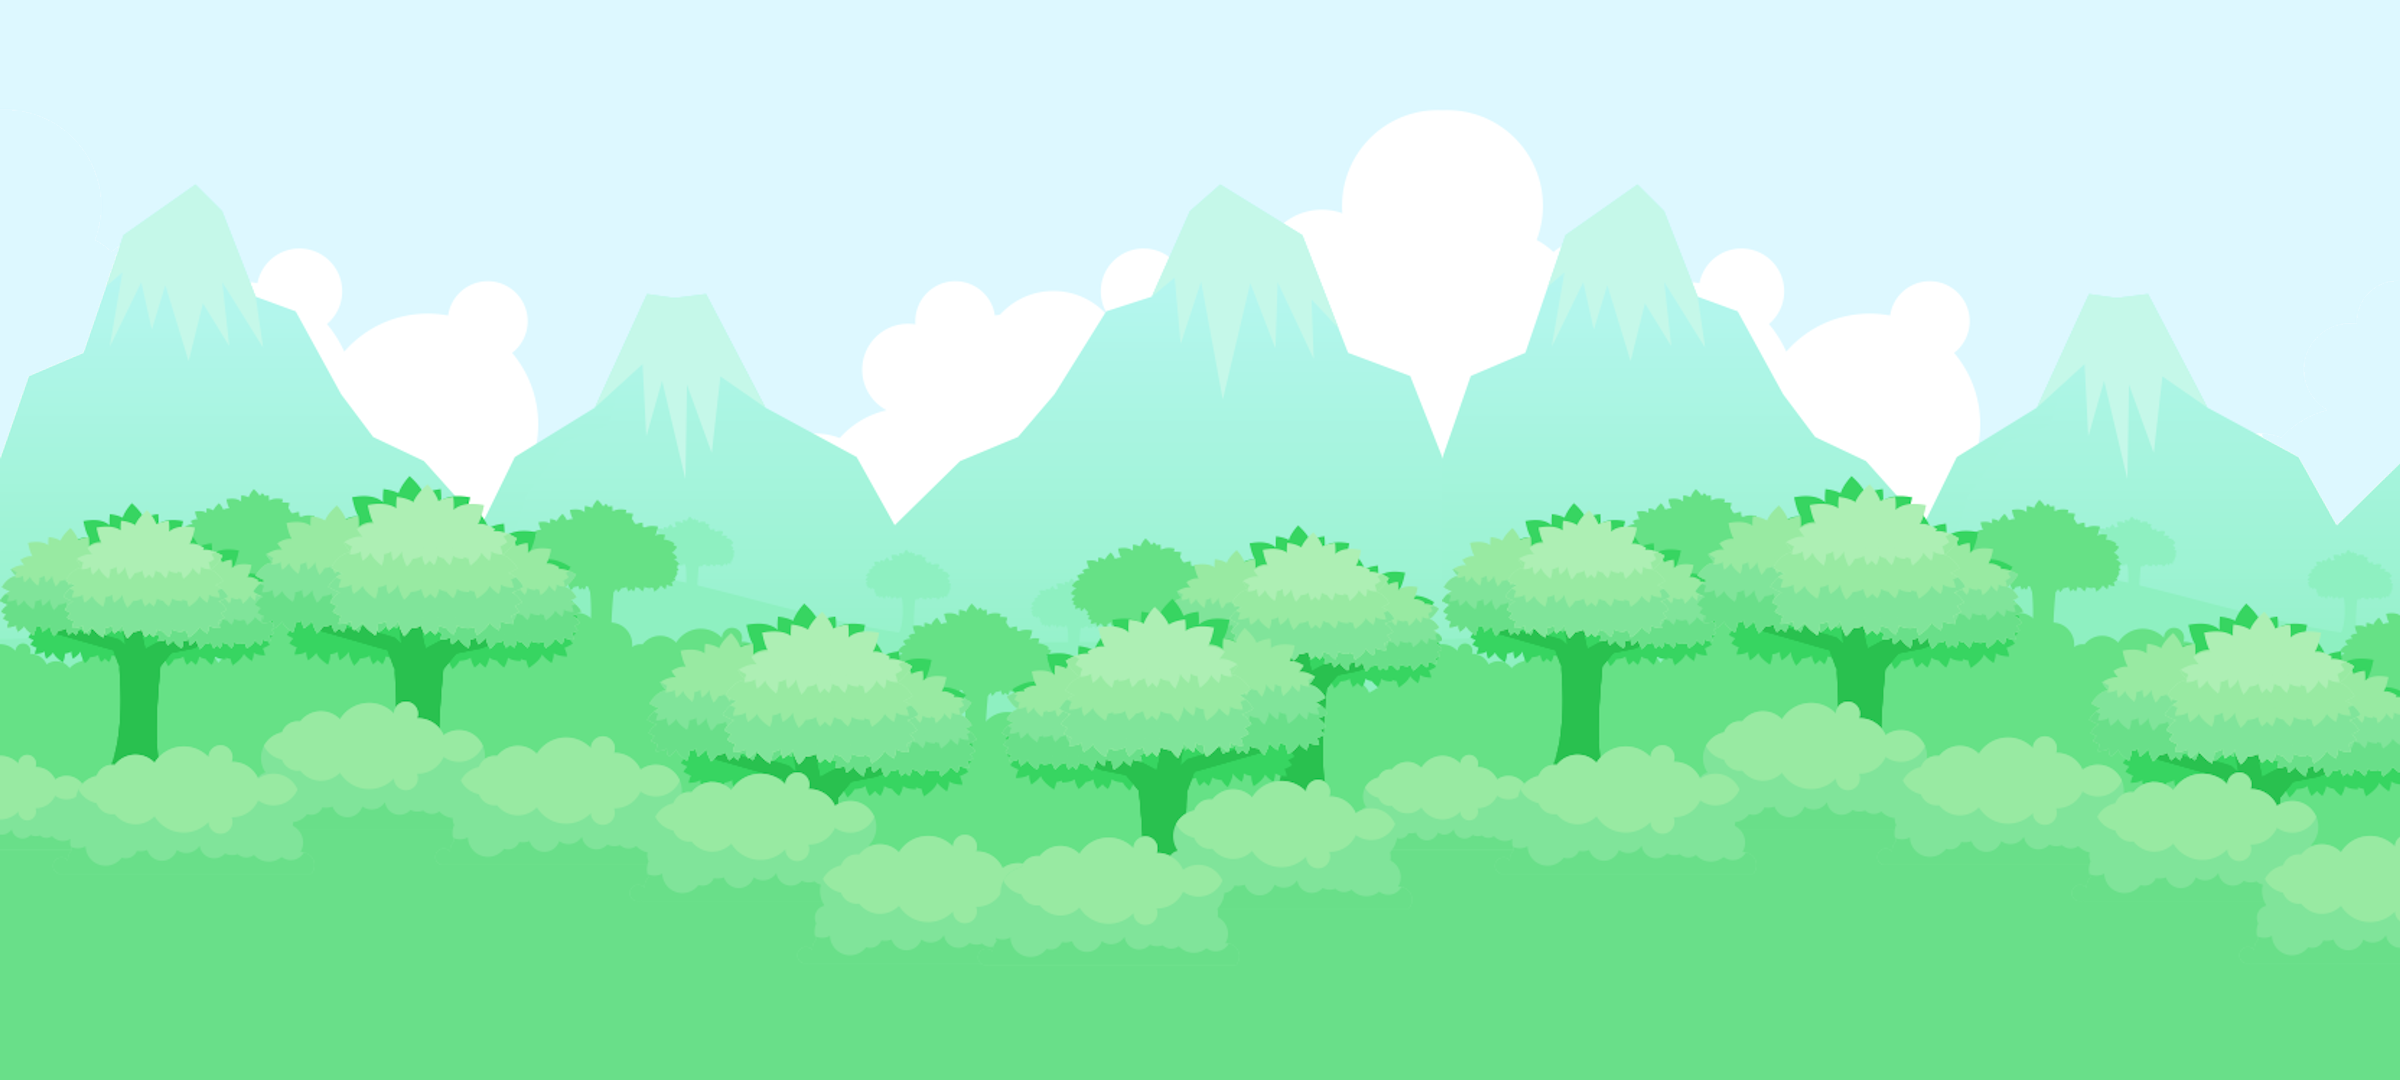
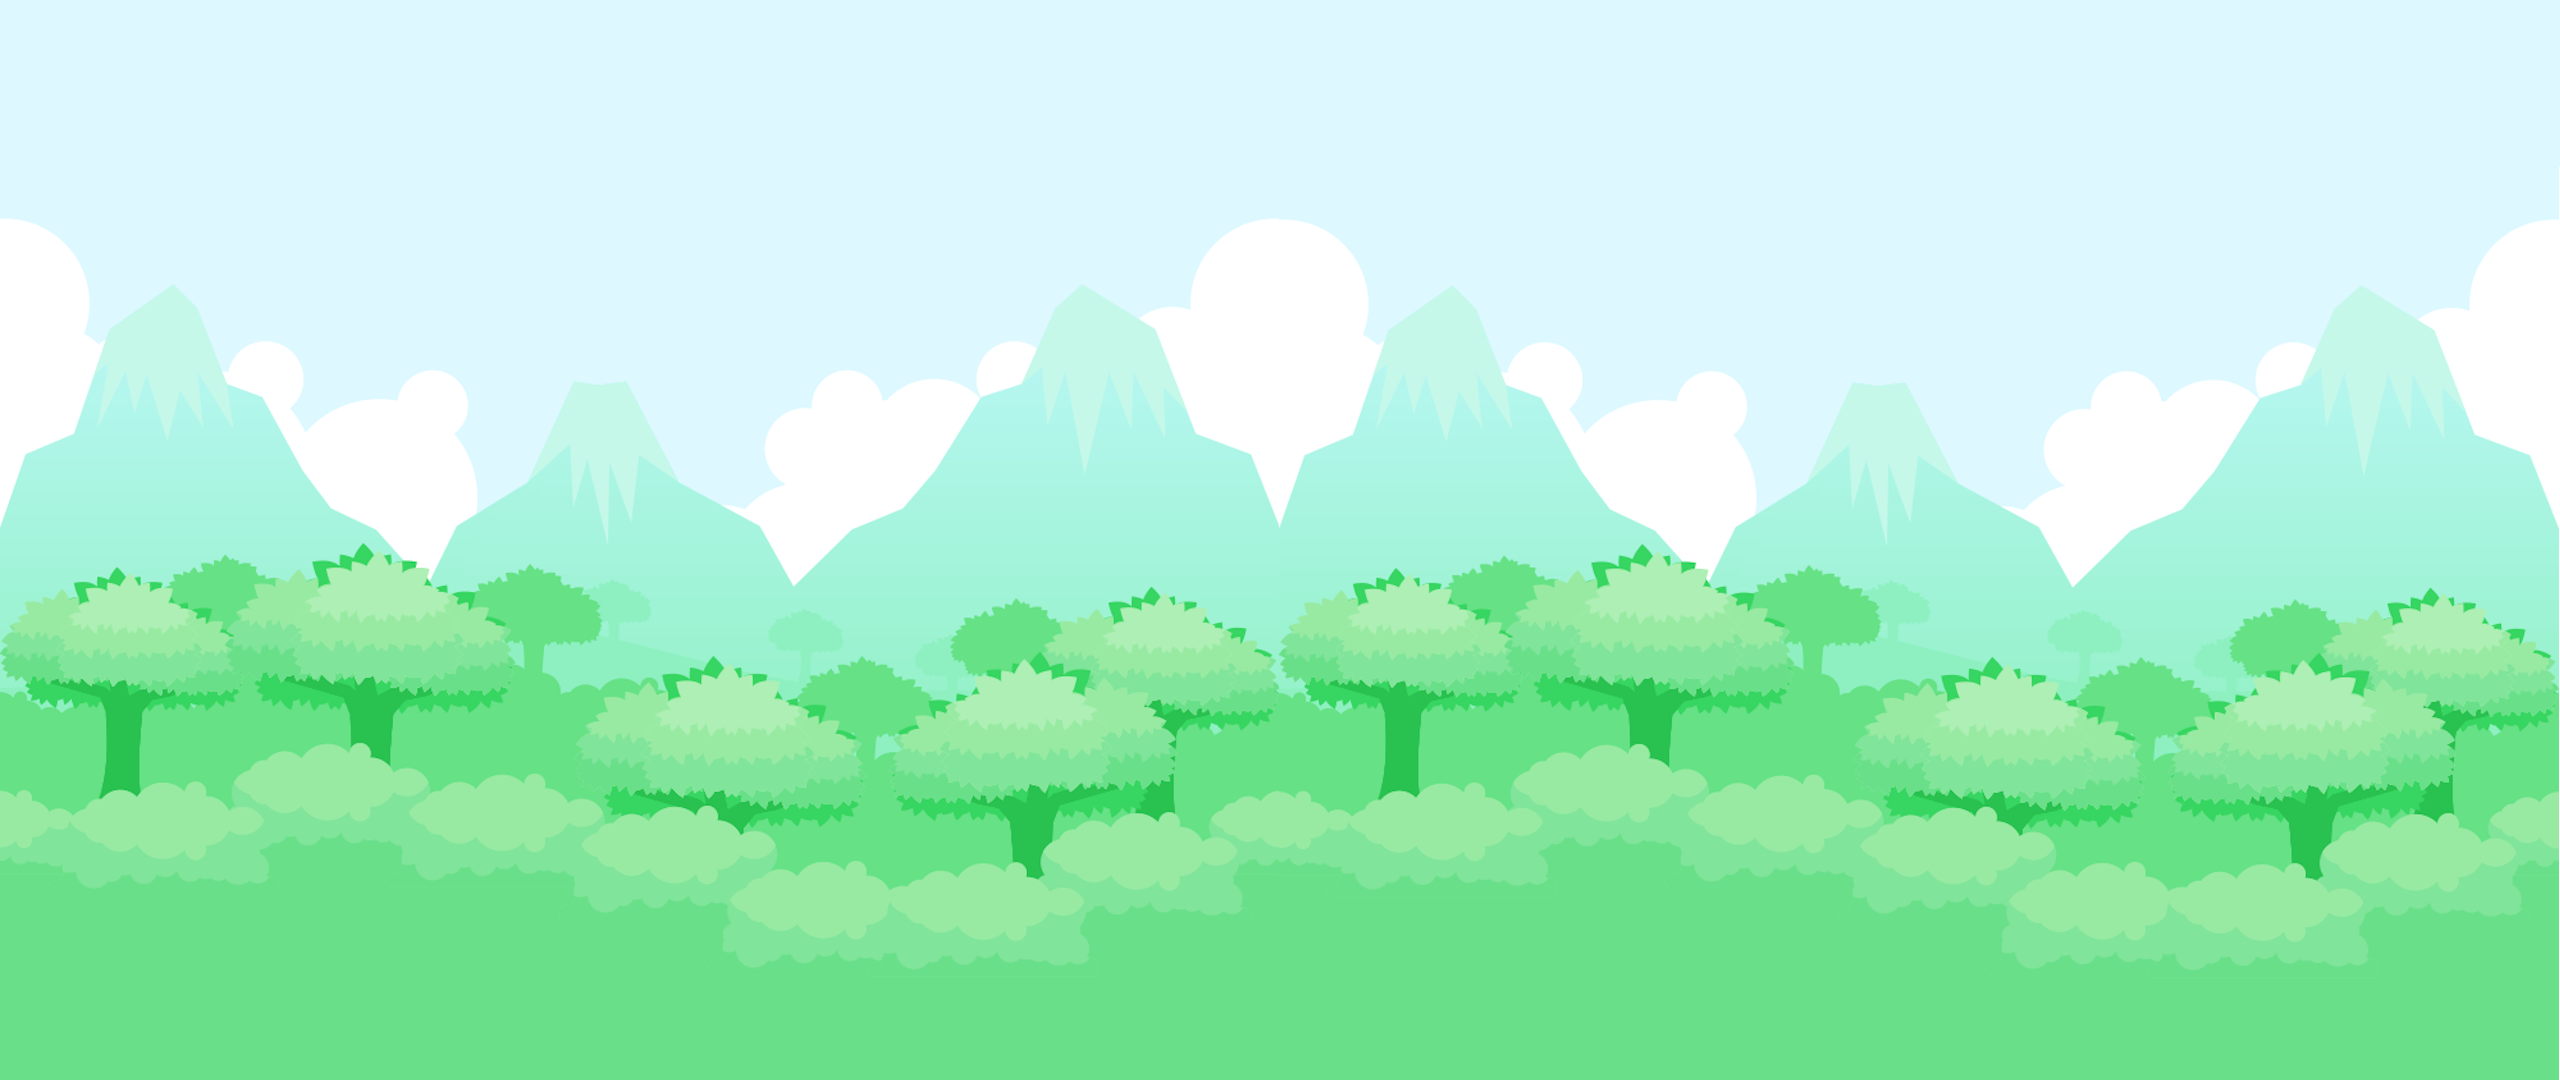
aaa

diff --git a/app/src/main/java/ccx/gamestudio/masterminigolf/GameLevels/World/WorldLevelDesert.java b/app/src/main/java/ccx/gamestudio/masterminigolf/GameLevels/World/WorldLevelDesert.java
@@ -27,33 +27,7 @@ public class WorldLevelDesert {
                         new GroundInLevelDef(0f, 0f, 0f, false, GroundInLevelDef.GroundType.One),
                 },
                 new WaterInLevelDef[]{
-                        new WaterInLevelDef(-512, -50, WaterInLevelDef.WaterType.water),
-                        new WaterInLevelDef(-256, -50, WaterInLevelDef.WaterType.water),
-                        new WaterInLevelDef(0, -50, WaterInLevelDef.WaterType.water),
-                        new WaterInLevelDef(256, -50, WaterInLevelDef.WaterType.water),
-                        new WaterInLevelDef(512, -50, WaterInLevelDef.WaterType.water),
-                        new WaterInLevelDef(768, -50, WaterInLevelDef.WaterType.water),
-                        new WaterInLevelDef(1024, -50, WaterInLevelDef.WaterType.water),
-                        new WaterInLevelDef(1280, -50, WaterInLevelDef.WaterType.water),
-                        new WaterInLevelDef(1536, -50, WaterInLevelDef.WaterType.water),
-                        new WaterInLevelDef(1792, -50, WaterInLevelDef.WaterType.water),
-                        new WaterInLevelDef(2048, -50, WaterInLevelDef.WaterType.water),
-                        new WaterInLevelDef(2304, -50, WaterInLevelDef.WaterType.water),
-                        new WaterInLevelDef(2560, -50, WaterInLevelDef.WaterType.water),
-                        new WaterInLevelDef(2816, -50, WaterInLevelDef.WaterType.water),
-                        new WaterInLevelDef(3072, -50, WaterInLevelDef.WaterType.water),
-                        new WaterInLevelDef(3328, -50, WaterInLevelDef.WaterType.water),
-                        new WaterInLevelDef(3584, -50, WaterInLevelDef.WaterType.water),
-                        new WaterInLevelDef(3840, -50, WaterInLevelDef.WaterType.water),
-                        new WaterInLevelDef(4096, -50, WaterInLevelDef.WaterType.water),
-                        new WaterInLevelDef(4352, -50, WaterInLevelDef.WaterType.water),
-                        new WaterInLevelDef(4608, -50, WaterInLevelDef.WaterType.water),
-                        new WaterInLevelDef(4864, -50, WaterInLevelDef.WaterType.water),
-                        new WaterInLevelDef(5120, -50, WaterInLevelDef.WaterType.water),
-                        new WaterInLevelDef(5376, -50, WaterInLevelDef.WaterType.water),
-                        new WaterInLevelDef(5632, -50, WaterInLevelDef.WaterType.water),
-                        new WaterInLevelDef(5888, -50, WaterInLevelDef.WaterType.water),
-                        new WaterInLevelDef(6144, -50, WaterInLevelDef.WaterType.water),
+
                 }
         );
     }

diff --git a/app/src/main/java/ccx/gamestudio/masterminigolf/GameLevels/ObjectsInLevels/Elements/HoleInOne/Hole.java b/app/src/main/java/ccx/gamestudio/masterminigolf/GameLevels/ObjectsInLevels/Elements/HoleInOne/Hole.java
@@ -17,12 +17,17 @@ import org.andengine.entity.sprite.Sprite;
 import org.andengine.extension.debugdraw.DebugRenderer;
 import org.andengine.extension.physics.box2d.PhysicsConnector;
 import org.andengine.extension.physics.box2d.PhysicsFactory;
+import org.andengine.opengl.texture.region.TextureRegion;
 
 
 import ccx.gamestudio.masterminigolf.GameLevels.GameLevel;
 import ccx.gamestudio.masterminigolf.GameLevels.PhysObject;
 
+import ccx.gamestudio.masterminigolf.GameObjects.GameObjectsDesertGround;
+import ccx.gamestudio.masterminigolf.GameObjects.GameObjectsGreenGround;
 import ccx.gamestudio.masterminigolf.GameObjects.GameObjectsHoleIOne;
+import ccx.gamestudio.masterminigolf.Helpers.SceneAssets;
+import ccx.gamestudio.masterminigolf.Helpers.SharedResources;
 import ccx.gamestudio.masterminigolf.Manager.ResourceManager;
 import ccx.gamestudio.masterminigolf.Manager.SFXManager;
 
@@ -35,20 +40,24 @@ public class Hole extends PhysObject<Sprite> {
     private  Sprite mHoleSprite;
     private Body mBodySensor;
     private boolean isSound;
+    public static TextureRegion mGree;
     public Hole(float pX, float pY, GameLevel pGameLevel) {
         this.mGameLevel = pGameLevel;
 
-        mHoleSprite = new Sprite(pX, pY, GameObjectsHoleIOne.mHoleInOne,  ResourceManager.getActivity().getVertexBufferObjectManager());
+        mGree = SceneAssets.getHoleTexture();
+
+        mHoleSprite = new Sprite(pX, pY, mGree, ResourceManager.getActivity().getVertexBufferObjectManager());
         mHoleSprite.setZIndex(999);
 
         final float width = mHoleSprite.getWidth() / PIXEL_TO_METER_RATIO_DEFAULT;
         final float height = mHoleSprite.getHeight() / PIXEL_TO_METER_RATIO_DEFAULT;
 
         final Vector2[] verticeSensor = {
-                new Vector2(-0.48683f*width, -0.44551f*height),
-                new Vector2(+0.46486f*width, -0.44584f*height),
-                new Vector2(+0.46446f*width, +0.47081f*height),
-                new Vector2(-0.48474f*width, +0.47081f*height),
+                new Vector2(-0.43437f*width, -0.44539f*height),
+                new Vector2(+0.40766f*width, -0.44539f*height),
+                new Vector2(+0.40766f*width, +0.27673f*height),
+                new Vector2(-0.43437f*width, +0.27673f*height),
+
         };
 
         mGROUND_FIXTURE_DEF.isSensor = true;

diff --git a/app/src/main/java/ccx/gamestudio/masterminigolf/Helpers/SceneAssets.java b/app/src/main/java/ccx/gamestudio/masterminigolf/Helpers/SceneAssets.java
@@ -1,0 +1,68 @@
+package ccx.gamestudio.masterminigolf.Helpers;
+
+
+import org.andengine.opengl.texture.region.TextureRegion;
+
+import ccx.gamestudio.masterminigolf.GameObjects.GameObjectsDesertGround;
+import ccx.gamestudio.masterminigolf.GameObjects.GameObjectsGreenGround;
+import ccx.gamestudio.masterminigolf.GameObjects.GameObjectsHoleIOne;
+
+public class SceneAssets {
+
+    public static int getScene() {
+        return SharedResources.getSelectedScene();
+    }
+
+    // ============================
+    // HOLE TEXTURE
+    // ============================
+    public static TextureRegion getHoleTexture() {
+        switch (getScene()) {
+            case 0:
+                return GameObjectsHoleIOne.mHoleInOne;
+            case 1:
+                return GameObjectsHoleIOne.mHoleInOneDesert;
+            case 3:
+                return GameObjectsHoleIOne.mHoleInOneDesert;
+            case 4:
+                return GameObjectsHoleIOne.mHoleInOneDesert;
+        }
+        return GameObjectsHoleIOne.mHoleInOne; // default
+    }
+
+    // ============================
+    // GROUND TEXTURES
+    // ============================
+    public static TextureRegion getGround1() {
+        switch (getScene()) {
+            case 0:
+                return GameObjectsGreenGround.mGround01;
+            case 1:
+                return GameObjectsDesertGround.mGround01;
+        }
+        return GameObjectsGreenGround.mGround01;
+    }
+
+    public static TextureRegion getGround2() {
+        switch (getScene()) {
+            case 0:
+                return GameObjectsGreenGround.mGround02;
+            case 1:
+                return GameObjectsDesertGround.mGround02;
+        }
+        return GameObjectsGreenGround.mGround02;
+    }
+
+    // ============================
+    // GREEN LEVEL TEXTURE
+    // ============================
+    public static TextureRegion getGreenLevelTexture() {
+        switch (getScene()) {
+            case 0:
+                return GameObjectsGreenGround.mGroundGreen;
+            case 1:
+                return GameObjectsDesertGround.mGreenDesert;
+        }
+        return GameObjectsGreenGround.mGroundGreen;
+    }
+}

diff --git a/app/src/main/java/ccx/gamestudio/masterminigolf/GameLevels/World/GroundLevel.java b/app/src/main/java/ccx/gamestudio/masterminigolf/GameLevels/World/GroundLevel.java
@@ -14,10 +14,14 @@ import com.badlogic.gdx.physics.box2d.Manifold;
 import org.andengine.entity.sprite.Sprite;
 import org.andengine.extension.physics.box2d.PhysicsConnector;
 import org.andengine.extension.physics.box2d.PhysicsFactory;
+import org.andengine.opengl.texture.region.TextureRegion;
 
 import ccx.gamestudio.masterminigolf.GameLevels.GameLevel;
 import ccx.gamestudio.masterminigolf.GameLevels.PhysObject;
+import ccx.gamestudio.masterminigolf.GameObjects.GameObjectsDesertGround;
 import ccx.gamestudio.masterminigolf.GameObjects.GameObjectsGreenGround;
+import ccx.gamestudio.masterminigolf.Helpers.SceneAssets;
+import ccx.gamestudio.masterminigolf.Helpers.SharedResources;
 import ccx.gamestudio.masterminigolf.Manager.ResourceManager;
 
 
@@ -33,16 +37,23 @@ public class GroundLevel extends PhysObject<Sprite> {
     public  Body mGroundBody;
     public Sprite mGround;
     public Sprite mGround02;
+    private TextureRegion mGround1;
+    private TextureRegion mGround2;
+
 
     // ===============================================================================================
     // CONSTRUCTOR
     // ===============================================================================================
     public GroundLevel(float pX, float pY, final GameLevel pGameLevel) {
 
-        mGround02 = new Sprite(pX-200, pY + 150, GameObjectsGreenGround.mGround02, ResourceManager.getActivity().getVertexBufferObjectManager());
+        mGround1 = SceneAssets.getGround1();
+        mGround2 = SceneAssets.getGround2();
+
+        assert mGround2 != null;
+        mGround02 = new Sprite(pX-200, pY + 150, mGround2, ResourceManager.getActivity().getVertexBufferObjectManager());
         pGameLevel.attachChild(mGround02);
 
-        mGround = new Sprite(pX, pY, GameObjectsGreenGround.mGround01, ResourceManager.getActivity().getVertexBufferObjectManager());
+        mGround = new Sprite(pX, pY, mGround1, ResourceManager.getActivity().getVertexBufferObjectManager());
         pGameLevel.attachChild(mGround);
 
         final float width = mGround.getWidth() / PIXEL_TO_METER_RATIO_DEFAULT;

diff --git a/app/src/main/java/ccx/gamestudio/masterminigolf/Menus/MainMenu.java b/app/src/main/java/ccx/gamestudio/masterminigolf/Menus/MainMenu.java
@@ -152,7 +152,6 @@ public class MainMenu extends ManagedMenuScene {
 			public void onClick() {
                 SceneManager.getInstance().showScene(new GameLevel(Level.getLevelDef(SharedResources.getSelectedScene() + 1, 1), false, false));
 			}
-
 		};
 		final Text txtPlay = new Text(challengeButton.getWidth() / 2, challengeButton.getHeight() / 2 + 25, ResourceManager.fontDefault72, ResourceManager.getContext().getText(R.string.app_desafio), ResourceManager.getActivity().getVertexBufferObjectManager());
 		challengeButton.attachChild(txtPlay);
@@ -171,7 +170,7 @@ public class MainMenu extends ManagedMenuScene {
 		GrowButton practiceButton = new GrowButton(timeTrialButton.getX(), timeTrialButton.getY() - 200f, MenuResourceManager.btnGeneric) {
 			@Override
 			public void onClick() {
-                SceneManager.getInstance().showScene(new GameLevel(Level.getLevelDef(1, 1), true, false));
+                SceneManager.getInstance().showScene(new GameLevel(Level.getLevelDef(SharedResources.getSelectedScene() + 1, 1), true, false));
 			}
 		};
 		final Text txtPractice = new Text(practiceButton.getWidth() / 2, practiceButton.getHeight() / 2 + 25, ResourceManager.fontDefault72, ResourceManager.getContext().getText(R.string.app_pratica), ResourceManager.getActivity().getVertexBufferObjectManager());

diff --git a/app/src/main/java/ccx/gamestudio/masterminigolf/GameLevels/World/GreenLevel.java b/app/src/main/java/ccx/gamestudio/masterminigolf/GameLevels/World/GreenLevel.java
@@ -18,6 +18,7 @@ import ccx.gamestudio.masterminigolf.GameLevels.GameLevel;
 import ccx.gamestudio.masterminigolf.GameLevels.PhysObject;
 import ccx.gamestudio.masterminigolf.GameObjects.GameObjectsDesertGround;
 import ccx.gamestudio.masterminigolf.GameObjects.GameObjectsGreenGround;
+import ccx.gamestudio.masterminigolf.Helpers.SceneAssets;
 import ccx.gamestudio.masterminigolf.Helpers.SharedResources;
 import ccx.gamestudio.masterminigolf.Manager.ResourceManager;
 
@@ -49,14 +50,8 @@ public class GreenLevel extends PhysObject<Sprite> {
         mGroundGreen = null;
         mGameLevel = pGameLevel;
 
-        switch (SharedResources.getSelectedScene()){
-            case 0:
-                mGroundTexture =  GameObjectsGreenGround.mGroundGreen;
-                break;
-            case 1:
-                mGroundTexture =  GameObjectsDesertGround.mGreenDesert;
-                break;
-        }
+        mGroundTexture = SceneAssets.getGreenLevelTexture();
+
 
         assert mGroundTexture != null;
         mGroundGreen = new Sprite(pX, pY, mGroundTexture, ResourceManager.getActivity().getVertexBufferObjectManager());

diff --git a/app/src/main/java/ccx/gamestudio/masterminigolf/GameObjects/GameObjectsHoleIOne.java b/app/src/main/java/ccx/gamestudio/masterminigolf/GameObjects/GameObjectsHoleIOne.java
@@ -30,8 +30,8 @@ public class GameObjectsHoleIOne {
 
         if(mHoleInOne==null) mHoleInOne = ResourceManager.getInstance().getLimitableTR("HoleInOne.png", mTransparentTextureOption);
         if(mHoleInOneDesert==null) mHoleInOneDesert = ResourceManager.getInstance().getLimitableTR("HoleInOneDesert.png", mTransparentTextureOption);
-        if(mHoleInOneNight==null) mHoleInOneDesert = ResourceManager.getInstance().getLimitableTR("HoleInOneNight.png", mTransparentTextureOption);
-        if(mHoleInOneWinter==null) mHoleInOneDesert = ResourceManager.getInstance().getLimitableTR("HoleInOneWinter.png", mTransparentTextureOption);
+        if(mHoleInOneNight==null) mHoleInOneNight = ResourceManager.getInstance().getLimitableTR("HoleInOneNight.png", mTransparentTextureOption);
+        if(mHoleInOneWinter==null) mHoleInOneWinter = ResourceManager.getInstance().getLimitableTR("HoleInOneWinter.png", mTransparentTextureOption);
 
         BitmapTextureAtlasTextureRegionFactory.setAssetBasePath(mPreviousAssetBasePath);
 

diff --git a/app/src/main/java/ccx/gamestudio/masterminigolf/GameLevels/GameLevel.java b/app/src/main/java/ccx/gamestudio/masterminigolf/GameLevels/GameLevel.java
@@ -380,10 +380,10 @@ public class GameLevel extends ManagedGameScene implements IOnSceneTouchListener
                         break;
                 }
 
-                final Sprite Sky = new Sprite(0f, 0f, mBackGroundTR, ResourceManager.getActivity().getVertexBufferObjectManager());
+                final Sprite Sky = new Sprite(0, 0, mBackGroundTR, ResourceManager.getActivity().getVertexBufferObjectManager());
 				Sky.setAnchorCenter(0f, 0f);
                 Sky.setZIndex(-1);
-                BGParallaxLayer.attachParallaxEntity(new ParallaxEntity(0.5f, Sky, true));
+                BGParallaxLayer.attachParallaxEntity(new ParallaxEntity(0.25f, Sky, true));
 
 				final ParallaxLayer CloudParallaxLayer = new ParallaxLayer(GameLevel.this.mCamera, true);
 				CloudParallaxLayer.setParallaxChangePerSecond(-200f);

diff --git a/app/src/main/java/ccx/gamestudio/masterminigolf/Layers/LevelPauseLayer.java b/app/src/main/java/ccx/gamestudio/masterminigolf/Layers/LevelPauseLayer.java
@@ -72,12 +72,10 @@ public class LevelPauseLayer extends ManagedLayer {
                 SceneManager.getInstance().hideLayer();
 
                 if (LevelPauseLayer.this.mIsGoingBackToLevel) {
-                    ActivateSound();
                     return;
                 }
 
                 LevelPauseLayer.this.mCurrentLevel.disposeLevel();
-                ActivateSound();
                 SceneManager.getInstance().showMainMenu();
             }
 		}
@@ -86,11 +84,6 @@ public class LevelPauseLayer extends ManagedLayer {
 		public void reset() {}
 	};
 
-	private void ActivateSound() {
-
-		if(!howIsTheSound && SFXManager.isSoundMuted())
-			SFXManager.setSoundMuted(false);
-	}
 
 	// ====================================================
 	// METHODS

diff --git a/app/src/main/java/ccx/gamestudio/masterminigolf/Layers/FailedLevelLayer.java b/app/src/main/java/ccx/gamestudio/masterminigolf/Layers/FailedLevelLayer.java
@@ -81,12 +81,10 @@ public class FailedLevelLayer extends ManagedLayer {
 
                 if (FailedLevelLayer.this.mIsGoingBackToLevel) {
                     mCurrentLevel.restartLevel();
-                    ActivateSound();
                     return;
                 }
 
                 FailedLevelLayer.this.mCurrentLevel.disposeLevel();
-                ActivateSound();
                 SceneManager.getInstance().showMainMenu();
             }
 		}
@@ -95,11 +93,6 @@ public class FailedLevelLayer extends ManagedLayer {
 		public void reset() {}
 	};
 
-	private void ActivateSound() {
-
-		if(!howIsTheSound && SFXManager.isSoundMuted())
-			SFXManager.setSoundMuted(false);
-	}
 
 	// ====================================================
 	// METHODS
